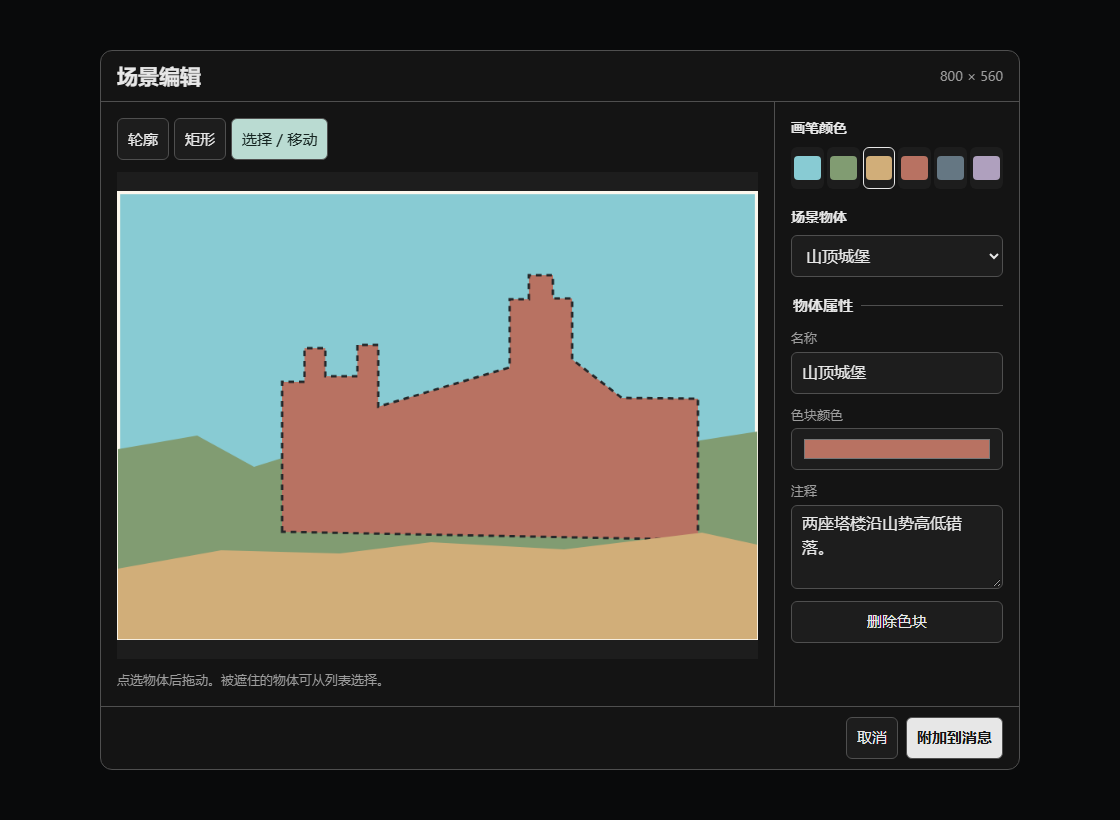
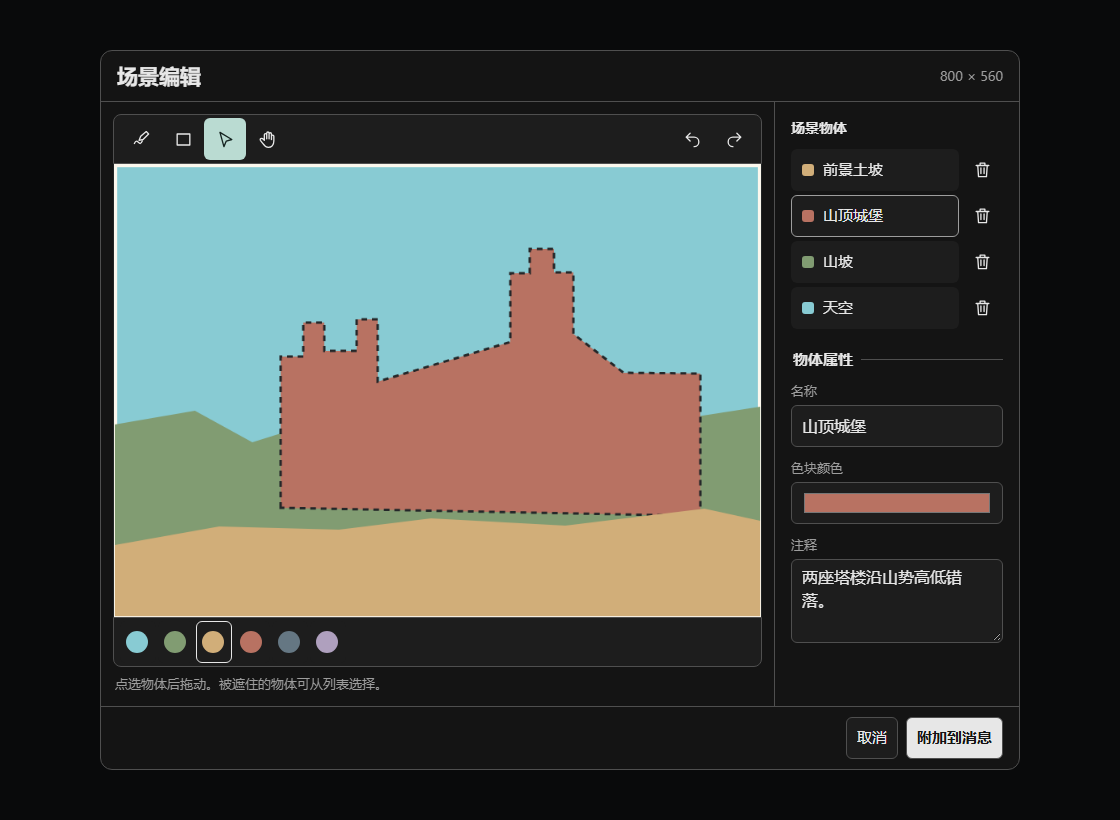
更新场景编辑说明和桌面触屏验收截图

diff --git a/README.md b/README.md
@@ -31,7 +31,7 @@ Windows 创建符号链接需要启用开发者模式或使用有相应权限的
 
 ## 可视化输入
 
-从输入框扩展菜单打开「场景编辑」。先选画笔颜色，再用「轮廓」沿物体边缘拖画，松开后自动闭合；也可以用「矩形」从一角拖到对角。先画背景，后画近景。用「选择 / 移动」拖动物体，或从「场景物体」列表选中被遮挡的色块，修改名称、颜色和注释。窄屏上可向下滚动编辑属性。
+从输入框扩展菜单打开「场景编辑」。先在画布底部选画笔颜色，再用「轮廓」沿物体边缘拖画，松开后自动闭合；也可以用「矩形」从一角拖到对角。先画背景，后画近景。用「选择 / 移动」拖动物体，或从「场景物体」列表选中被遮挡的色块，修改名称、颜色和注释。列表项右侧可删除物体。画布上沿的撤销和还原按钮可恢复绘制、移动、删除和属性修改，也可使用 Ctrl/Cmd+Z 和 Ctrl/Cmd+Shift+Z。切换到手掌图标「查看」后，拖动可平移视图，滚轮、双指或加减按钮可缩放，点击百分比可复位。导出始终使用整张画板。窄屏上可向下滚动编辑属性。
 
 点击「附加到消息」会把 800 × 560 的 PNG 场景图和一份 TXT 物体说明放入当前消息草稿。说明按叠放顺序列出物体名称、颜色、坐标范围和注释。可以继续输入正文，再一起发送。[桌面画板](docs/screenshots/scene-desktop.png) · [窄屏画板](docs/screenshots/scene-mobile.png) · [窄屏注释](docs/screenshots/scene-mobile-note.png)
 
@@ -54,7 +54,7 @@ Windows 创建符号链接需要启用开发者模式或使用有相应权限的
 
 工具设置中的「默认发送档位」控制附件组合；编辑器也可单独改选「本次发送档位」。几何摘要记录双腕相对位置和膝角；完整数据另含全部 18 个关节的像素坐标、视图和图例。可以只附其中一种文本、只附骨架图，或把骨架图与任一种文本一起发送。所有档位都保留手写注释，仅图档有注释时另附注释原文。原先关闭姿态数据文本的配置沿用仅图片，其余默认完整图文。设置旁显示当前 ST 连接的图片内联状态。点击「附加到消息」后仍可继续编辑草稿。[档位成本与准确率](docs/pose-tiers.md) · [姿态附件渲染调研](docs/pose-rendering.md) · [DeepSeek 对照测试与消息结构](docs/pose-deepseek.md)
 
-「姿态仅发送给当前请求」默认关闭，ST 会在上下文预算允许时重复携带历史姿态。开启后，新附加的姿态图、数据和注释仅参与首次生成请求。原附件仍可在聊天中查看，后续提问、重新生成、滑动回复及工具调用后的下一次生成会省略这些附件。正文和普通附件照常参与上下文；已经生成的回复也会保留其文字。此选项在附加时确定，不更改以前的姿态。历史过滤需要启用 ST My Tweaks 扩展，关闭其中的姿态编辑工具仍会过滤。
+「可视化输入附件仅发送给当前请求」沿用原有设置，默认关闭。开启后，姿态编辑和场景编辑新附加的图片、数据和注释仅参与首次生成请求。原附件仍可在聊天中查看，后续提问、重新生成、滑动回复及工具调用后的下一次生成会省略这些附件。正文和普通附件照常参与上下文；已经生成的回复也会保留其文字。此选项在附加时确定，已附加的内容沿用附加时的设置。历史过滤需要启用 ST My Tweaks 扩展，关闭其中的可视化输入工具仍会过滤。
 
 ## 附加聊天记录
 
